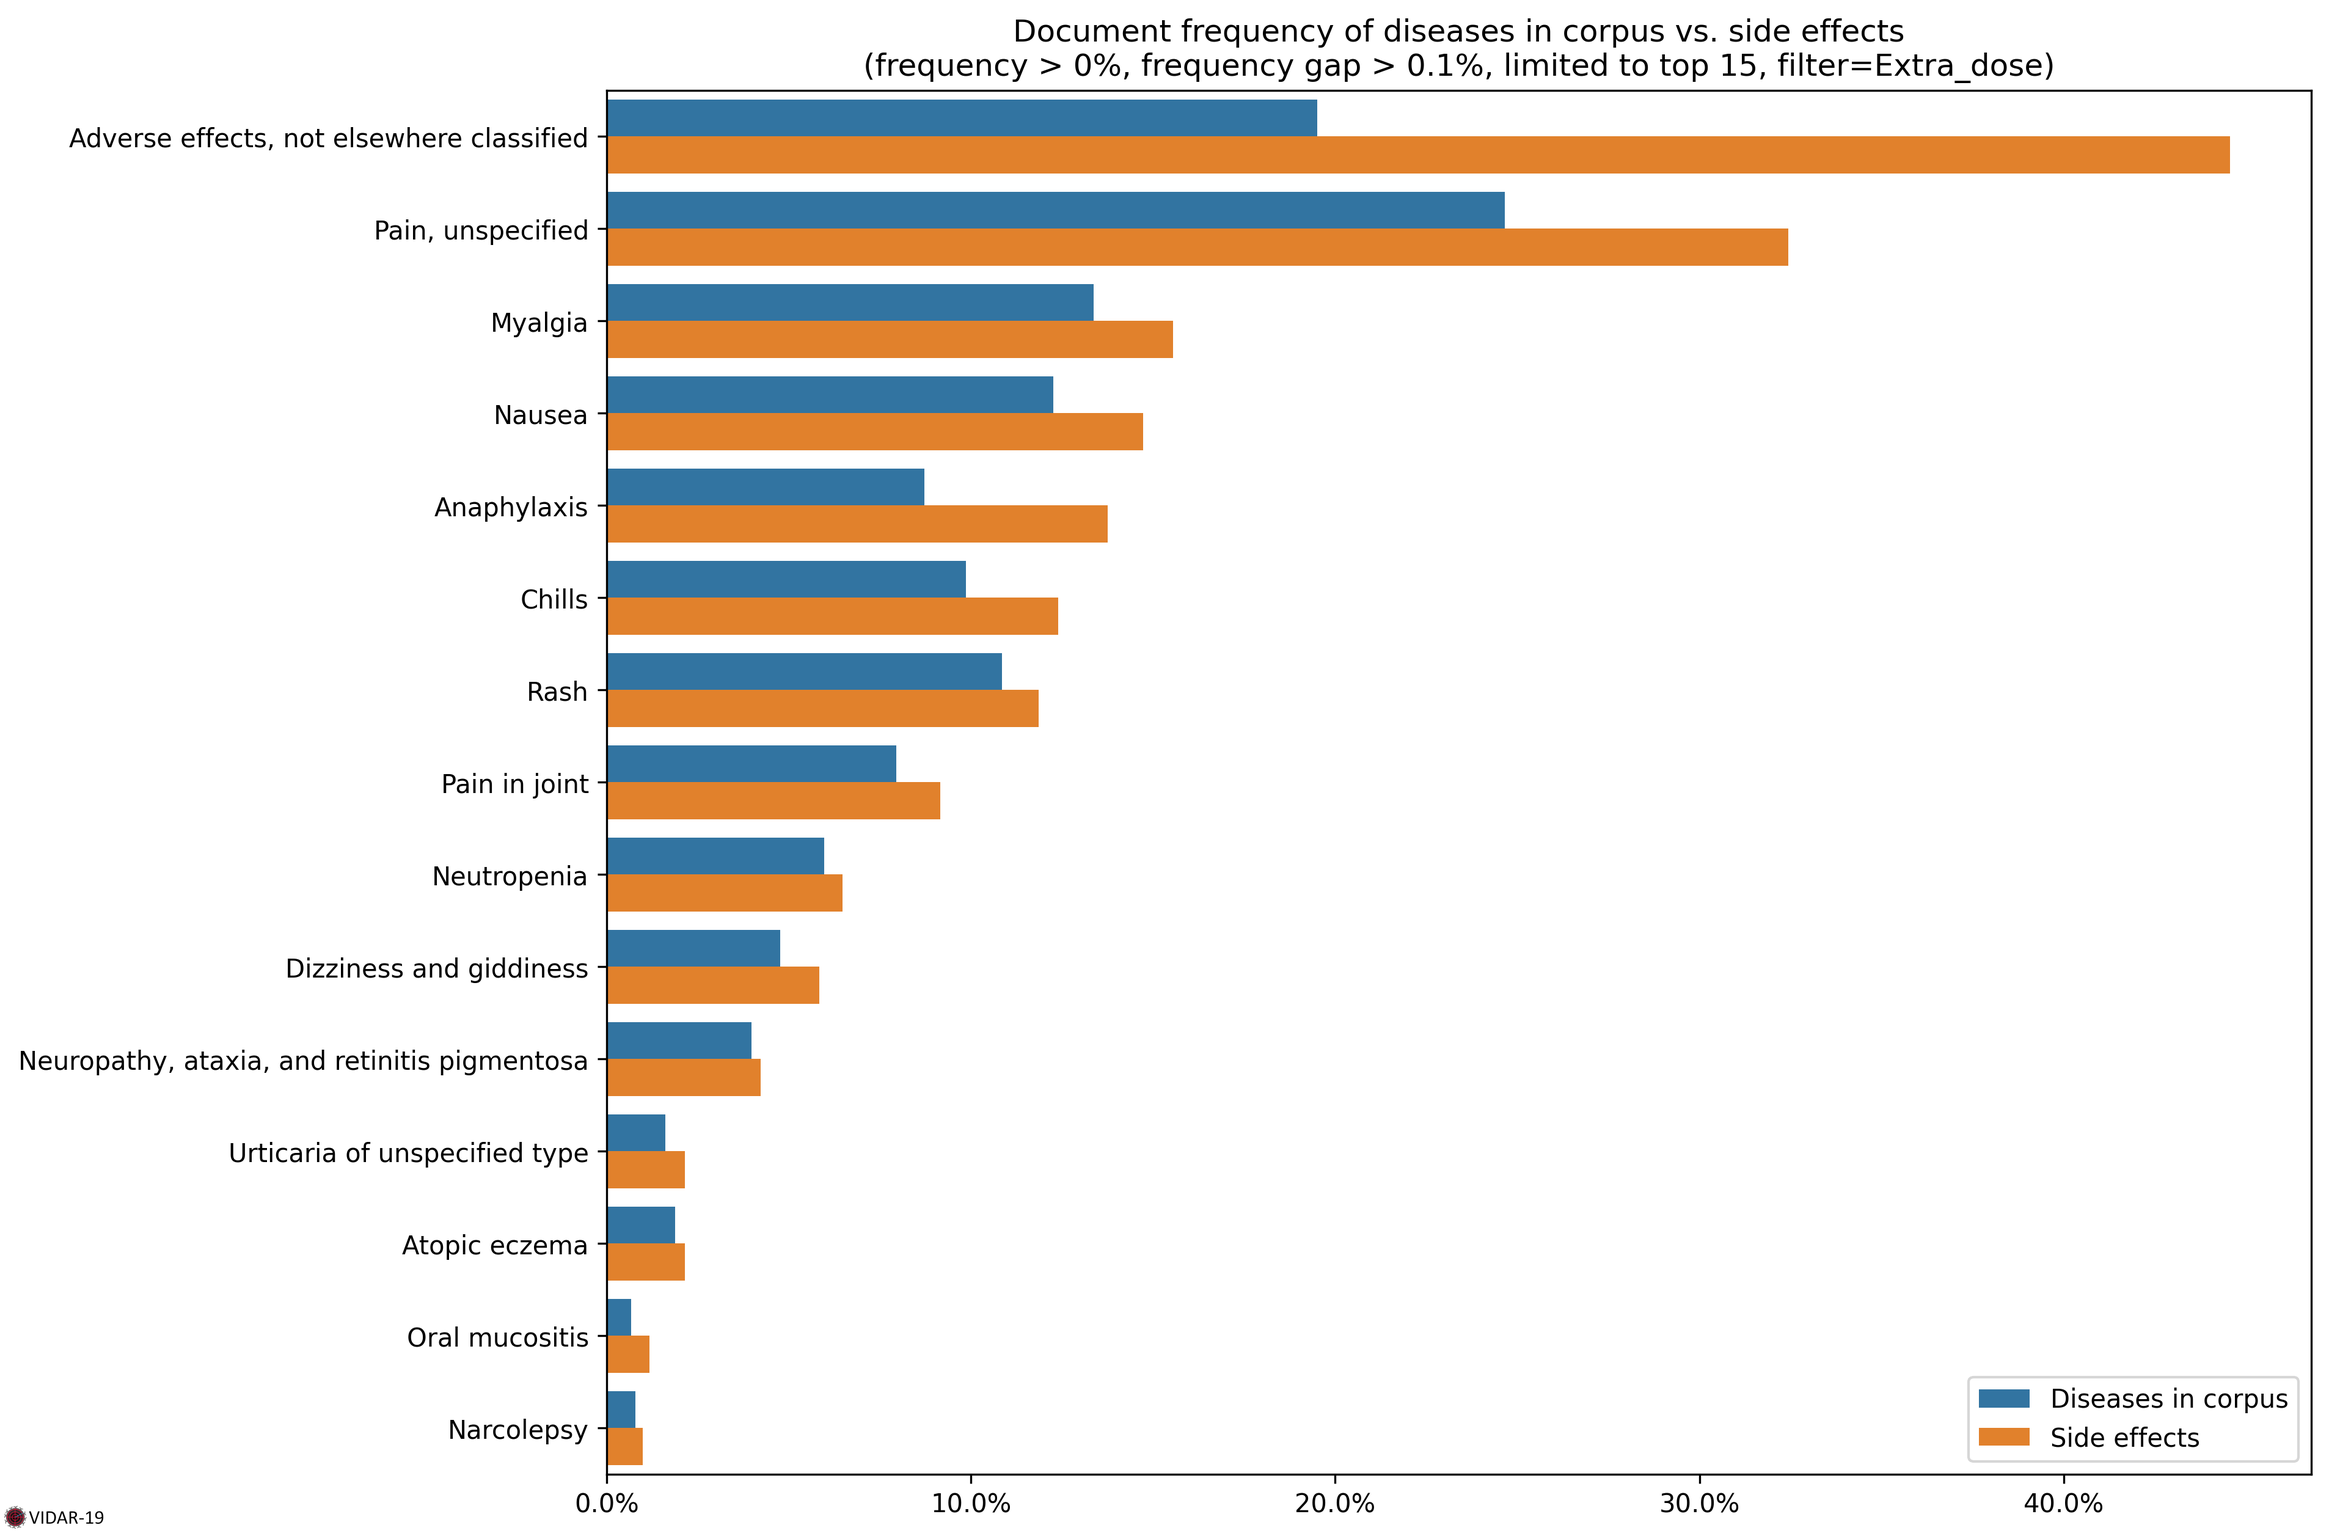
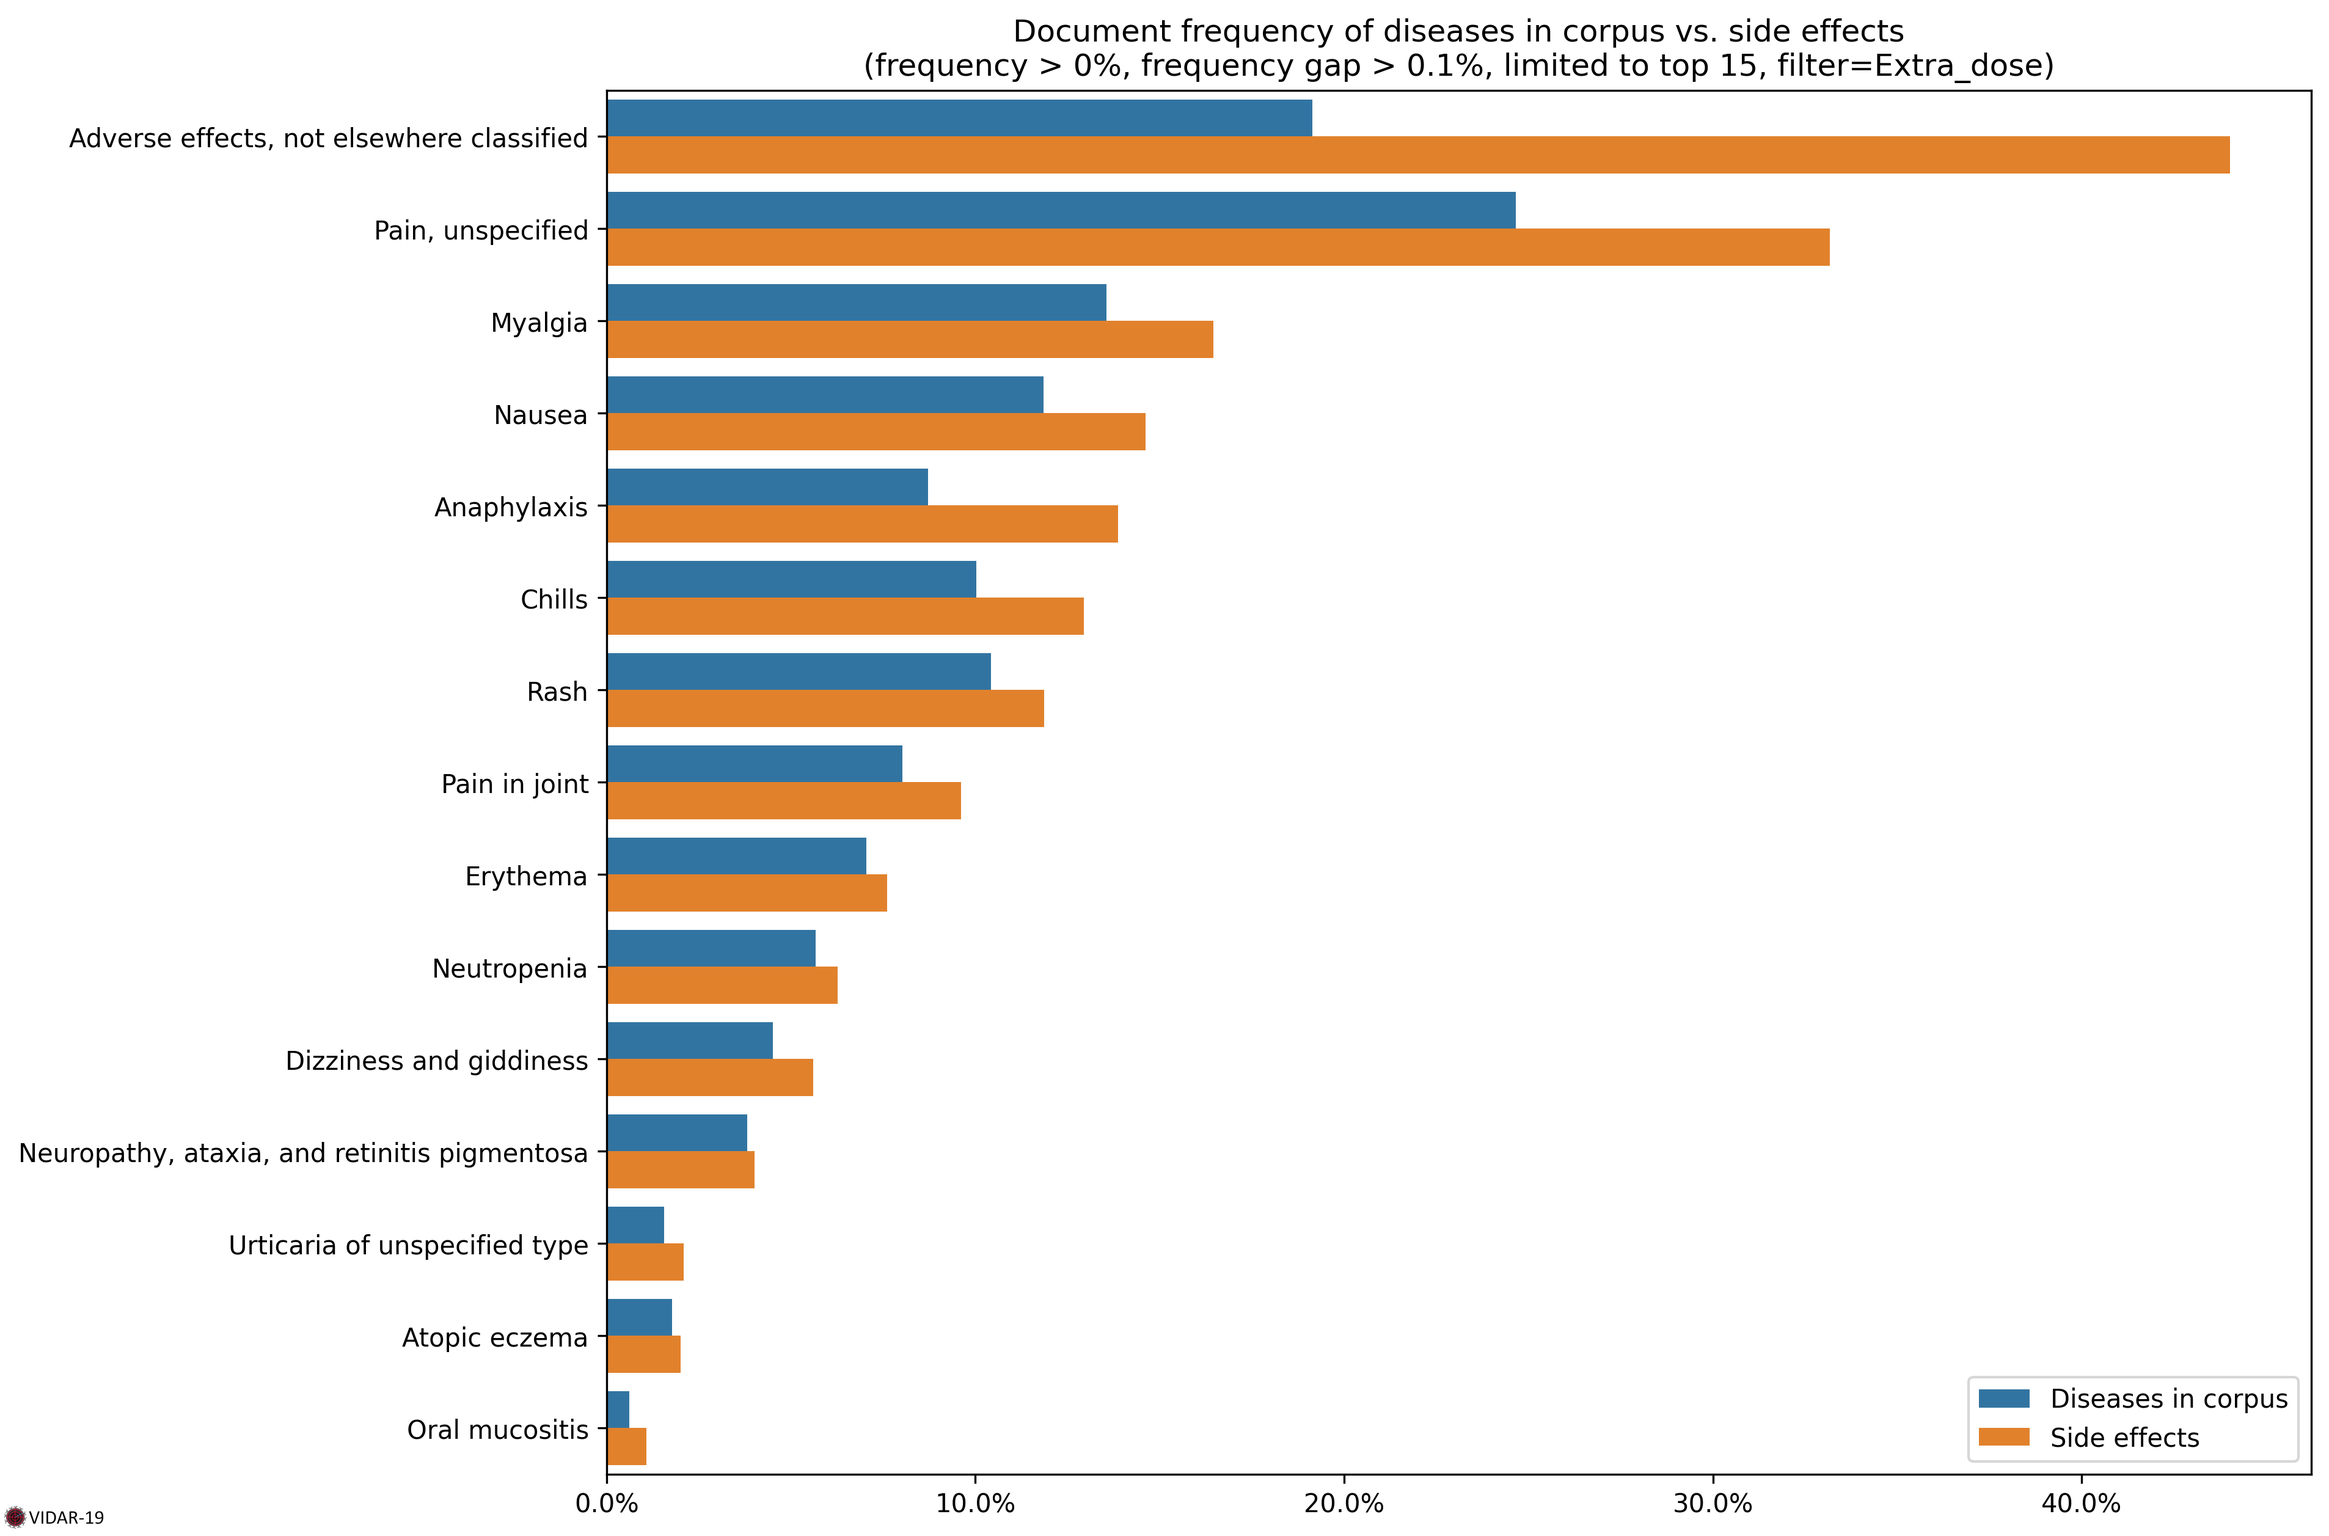
update 13/12/2021

diff --git a/vaccines-side-effects.md b/vaccines-side-effects.md
@@ -1,5 +1,7 @@
 # Vaccines Side Effects
 
+As of 13/12/2021, vaccines side effects have been computed on 14K documents dealing with Covid-19 vaccines.
+
 ![VIDAR-19](https://fran6wol.eu.pythonanywhere.com/assets/img/vidar_wm2.png)
 
 ## Document Frequency
@@ -8,24 +10,24 @@
 
 ### Table
 
-| Code   | Title                                     |   Diseases in corpus |   Side effects |   Ratio |
-|:-------|:------------------------------------------|---------------------:|---------------:|--------:|
-| NF09   | Adverse effects, not elsewhere classified |                 14.7 |           39.6 |     2.7 |
-| MG3Z   | Pain, unspecified                         |                 18.6 |           24.9 |     1.3 |
-| FB56.2 | Myalgia                                   |                 10.6 |           13.3 |     1.3 |
-| 4A84   | Anaphylaxis                               |                  5.8 |           11.7 |     2   |
-| 3B64   | Thrombocytopenia                          |                  9.7 |           11.3 |     1.2 |
-| MD90.0 | Nausea                                    |                  8.7 |           11.1 |     1.3 |
-| MG21   | Chills                                    |                  6.7 |           10.3 |     1.5 |
-| ME82   | Pain in joint                             |                  5.2 |            7.5 |     1.5 |
-| ME66.6 | Rash                                      |                  5.5 |            6.5 |     1.2 |
-| MA01   | Enlarged lymph nodes                      |                  3.5 |            4   |     1.1 |
-| ME64.0 | Erythema                                  |                  3   |            3.6 |     1.2 |
-| MB48   | Dizziness and giddiness                   |                  2.9 |            3.1 |     1.1 |
-| EC90   | Pruritus                                  |                  1.9 |            2.5 |     1.3 |
-| BB2Z   | Pericarditis, unspecified                 |                  2   |            2.2 |     1.1 |
-| 8A41.0 | Transverse myelitis                       |                  1.3 |            1.9 |     1.5 |
-| BB20.2 | Myopericarditis                           |                  0.6 |            0.8 |     1.3 |
-| MC41   | Tinnitus                                  |                  0.4 |            0.6 |     1.4 |
-| JA01   | Ectopic pregnancy                         |                  0.2 |            0.4 |     1.5 |
-| 2A21   | Mastocytosis                              |                  0.2 |            0.3 |     1.5 |
+| Code   | Title                                     | Diseases in corpus | Side effects | Ratio |
+| :----- | :---------------------------------------- | -----------------: | -----------: | ----: |
+| NF09   | Adverse effects, not elsewhere classified |               14.7 |         39.3 |   2.7 |
+| MG3Z   | Pain, unspecified                         |               18.7 |         25.1 |   1.3 |
+| FB56.2 | Myalgia                                   |               10.6 |         13.4 |   1.3 |
+| 4A84   | Anaphylaxis                               |                5.9 |         11.6 |     2 |
+| 3B64   | Thrombocytopenia                          |                9.8 |         11.4 |   1.2 |
+| MD90.0 | Nausea                                    |                8.6 |         11.1 |   1.3 |
+| MG21   | Chills                                    |                6.7 |         10.3 |   1.5 |
+| ME82   | Pain in joint                             |                5.2 |          7.6 |   1.5 |
+| ME66.6 | Rash                                      |                5.6 |          6.6 |   1.2 |
+| BC42   | Myocarditis                               |                  5 |          5.2 |     1 |
+| MA01   | Enlarged lymph nodes                      |                3.4 |            4 |   1.2 |
+| ME64.0 | Erythema                                  |                3.2 |          3.9 |   1.2 |
+| MB48   | Dizziness and giddiness                   |                2.9 |          3.2 |   1.1 |
+| BB2Z   | Pericarditis, unspecified                 |                2.1 |          2.5 |   1.2 |
+| EC90   | Pruritus                                  |                1.9 |          2.4 |   1.2 |
+| 8A41.0 | Transverse myelitis                       |                1.3 |            2 |   1.6 |
+| BB20.2 | Myopericarditis                           |                0.7 |          0.9 |   1.3 |
+| MC41   | Tinnitus                                  |                0.4 |          0.6 |   1.4 |
+| JA01   | Ectopic pregnancy                         |                0.2 |          0.3 |   1.5 |

diff --git a/covid-19-risk-factors.md b/covid-19-risk-factors.md
@@ -1,5 +1,9 @@
 # Covid-19 Risk Factors
 
+
+
+As of 13/12/2021, risk factors have been computed on 218K documents dealing with Sars-Cov-2 and Covid-19.
+
 ![VIDAR-19](https://fran6wol.eu.pythonanywhere.com/assets/img/vidar_wm2.png)
 
 ## Document Frequency
@@ -8,22 +12,22 @@
 
 ### Table
 
-| Code   | Title                                         |   Diseases in corpus |   Risk factors |   Ratio |
-|:-------|:----------------------------------------------|---------------------:|---------------:|--------:|
-| 5B81   | Obesity                                       |                  8.7 |           19.3 |     2.2 |
-| MG2A   | Old age                                       |                  5.3 |            7.7 |     1.5 |
-| 5A13   | Diabetes mellitus, other specified type       |                  5.1 |            7.5 |     1.5 |
-| 8B20   | Stroke not known if ischaemic or haemorrhagic |                  6   |            6.6 |     1.1 |
-| GB61   | Chronic kidney disease                        |                  3.7 |            5   |     1.3 |
-| 5A11   | Type 2 diabetes mellitus                      |                  3.3 |            4.2 |     1.3 |
-| 5B80.0 | Overweight                                    |                  2   |            3.3 |     1.6 |
-| BA00   | Essential hypertension                        |                  1.6 |            2.1 |     1.3 |
-| BD72   | Venous thromboembolism                        |                  1.5 |            1.6 |     1.1 |
-| 5B57   | Vitamin D deficiency                          |                  0.6 |            1   |     1.6 |
-| DB92   | Non-alcoholic fatty liver disease             |                  0.5 |            0.7 |     1.3 |
-| 8B2Z   | Cerebrovascular diseases, unspecified         |                  0.5 |            0.7 |     1.3 |
-| 1F2C   | Mucormycosis                                  |                  0.3 |            0.7 |     2.3 |
-| 6C40.1 | Harmful pattern of use of alcohol             |                  0.6 |            0.7 |     1.3 |
-| 5A24   | Uncontrolled or unstable diabetes mellitus    |                  0.3 |            0.5 |     1.7 |
-| 3B61   | Thrombophilia                                 |                  0.3 |            0.5 |     1.9 |
-| 1F20.0 | Invasive aspergillosis                        |                  0.3 |            0.4 |     1.6 |
+| Code   | Title                                         | Diseases in corpus | Risk factors | Ratio |
+| :----- | :-------------------------------------------- | -----------------: | -----------: | ----: |
+| 5B81   | Obesity                                       |                8.7 |         19.3 |   2.2 |
+| MG2A   | Old age                                       |                5.3 |          7.7 |   1.5 |
+| 5A13   | Diabetes mellitus, other specified type       |                5.1 |          7.5 |   1.5 |
+| 8B20   | Stroke not known if ischaemic or haemorrhagic |                  6 |          6.6 |   1.1 |
+| GB61   | Chronic kidney disease                        |                3.7 |            5 |   1.3 |
+| 5A11   | Type 2 diabetes mellitus                      |                3.3 |          4.2 |   1.3 |
+| 5B80.0 | Overweight                                    |                2.1 |          3.3 |   1.6 |
+| BA00   | Essential hypertension                        |                1.6 |          2.1 |   1.3 |
+| MB26.A | Suicidal ideation                             |                  1 |          1.2 |   1.1 |
+| 5B57   | Vitamin D deficiency                          |                0.6 |            1 |   1.7 |
+| 1F2C   | Mucormycosis                                  |                0.3 |          0.7 |   2.3 |
+| DB92   | Non-alcoholic fatty liver disease             |                0.5 |          0.7 |   1.3 |
+| 8B2Z   | Cerebrovascular diseases, unspecified         |                0.5 |          0.7 |   1.3 |
+| 6C40.1 | Harmful pattern of use of alcohol             |                0.6 |          0.7 |   1.2 |
+| 5A24   | Uncontrolled or unstable diabetes mellitus    |                0.3 |          0.5 |   1.7 |
+| 3B61   | Thrombophilia                                 |                0.3 |          0.5 |   1.9 |
+| 1F20.0 | Invasive aspergillosis                        |                0.3 |          0.5 |   1.6 |

diff --git a/extra-dose-side-effects.md b/extra-dose-side-effects.md
@@ -1,5 +1,7 @@
 # Extra Dose Side Effects
 
+As of 13/12/2021, extra dose side effects have been computed on 3K documents dealing with Covid-19 extra doses.
+
 ![VIDAR-19](https://fran6wol.eu.pythonanywhere.com/assets/img/vidar_wm2.png)
 
 ## Document Frequency
@@ -8,20 +10,21 @@
 
 ### Table
 
-| Code    | Title                                        |   Diseases in corpus |   Side effects |   Ratio |
-|:--------|:---------------------------------------------|---------------------:|---------------:|--------:|
-| NF09    | Adverse effects, not elsewhere classified    |                 19.5 |           44.6 |     2.3 |
-| MG3Z    | Pain, unspecified                            |                 24.7 |           32.4 |     1.3 |
-| FB56.2  | Myalgia                                      |                 13.4 |           15.5 |     1.2 |
-| MD90.0  | Nausea                                       |                 12.3 |           14.7 |     1.2 |
-| 4A84    | Anaphylaxis                                  |                  8.7 |           13.7 |     1.6 |
-| MG21    | Chills                                       |                  9.9 |           12.4 |     1.3 |
-| ME66.6  | Rash                                         |                 10.9 |           11.9 |     1.1 |
-| ME82    | Pain in joint                                |                  7.9 |            9.2 |     1.2 |
-| 4B00.0  | Neutropenia                                  |                  6   |            6.5 |     1.1 |
-| MB48    | Dizziness and giddiness                      |                  4.8 |            5.8 |     1.2 |
-| 8C73.1  | Neuropathy, ataxia, and retinitis pigmentosa |                  4   |            4.2 |     1.1 |
-| EB05    | Urticaria of unspecified type                |                  1.6 |            2.2 |     1.3 |
-| EA80    | Atopic eczema                                |                  1.9 |            2.2 |     1.1 |
-| DA01.11 | Oral mucositis                               |                  0.7 |            1.2 |     1.7 |
-| 7A20    | Narcolepsy                                   |                  0.8 |            1   |     1.3 |
+| Code    | Title                                        | Diseases in corpus | Side effects | Ratio |
+| :------ | :------------------------------------------- | -----------------: | -----------: | ----: |
+| NF09    | Adverse effects, not elsewhere classified    |               19.1 |           44 |   2.3 |
+| MG3Z    | Pain, unspecified                            |               24.7 |         33.2 |   1.3 |
+| FB56.2  | Myalgia                                      |               13.5 |         16.5 |   1.2 |
+| MD90.0  | Nausea                                       |               11.8 |         14.6 |   1.2 |
+| 4A84    | Anaphylaxis                                  |                8.7 |         13.9 |   1.6 |
+| MG21    | Chills                                       |                 10 |         12.9 |   1.3 |
+| ME66.6  | Rash                                         |               10.4 |         11.9 |   1.1 |
+| ME82    | Pain in joint                                |                  8 |          9.6 |   1.2 |
+| ME64.0  | Erythema                                     |                  7 |          7.6 |   1.1 |
+| 4B00.0  | Neutropenia                                  |                5.7 |          6.3 |   1.1 |
+| MB48    | Dizziness and giddiness                      |                4.5 |          5.6 |   1.2 |
+| 8C73.1  | Neuropathy, ataxia, and retinitis pigmentosa |                3.8 |            4 |   1.1 |
+| EB05    | Urticaria of unspecified type                |                1.6 |          2.1 |   1.3 |
+| EA80    | Atopic eczema                                |                1.8 |            2 |   1.1 |
+| DA01.11 | Oral mucositis                               |                0.6 |          1.1 |   1.8 |
+
